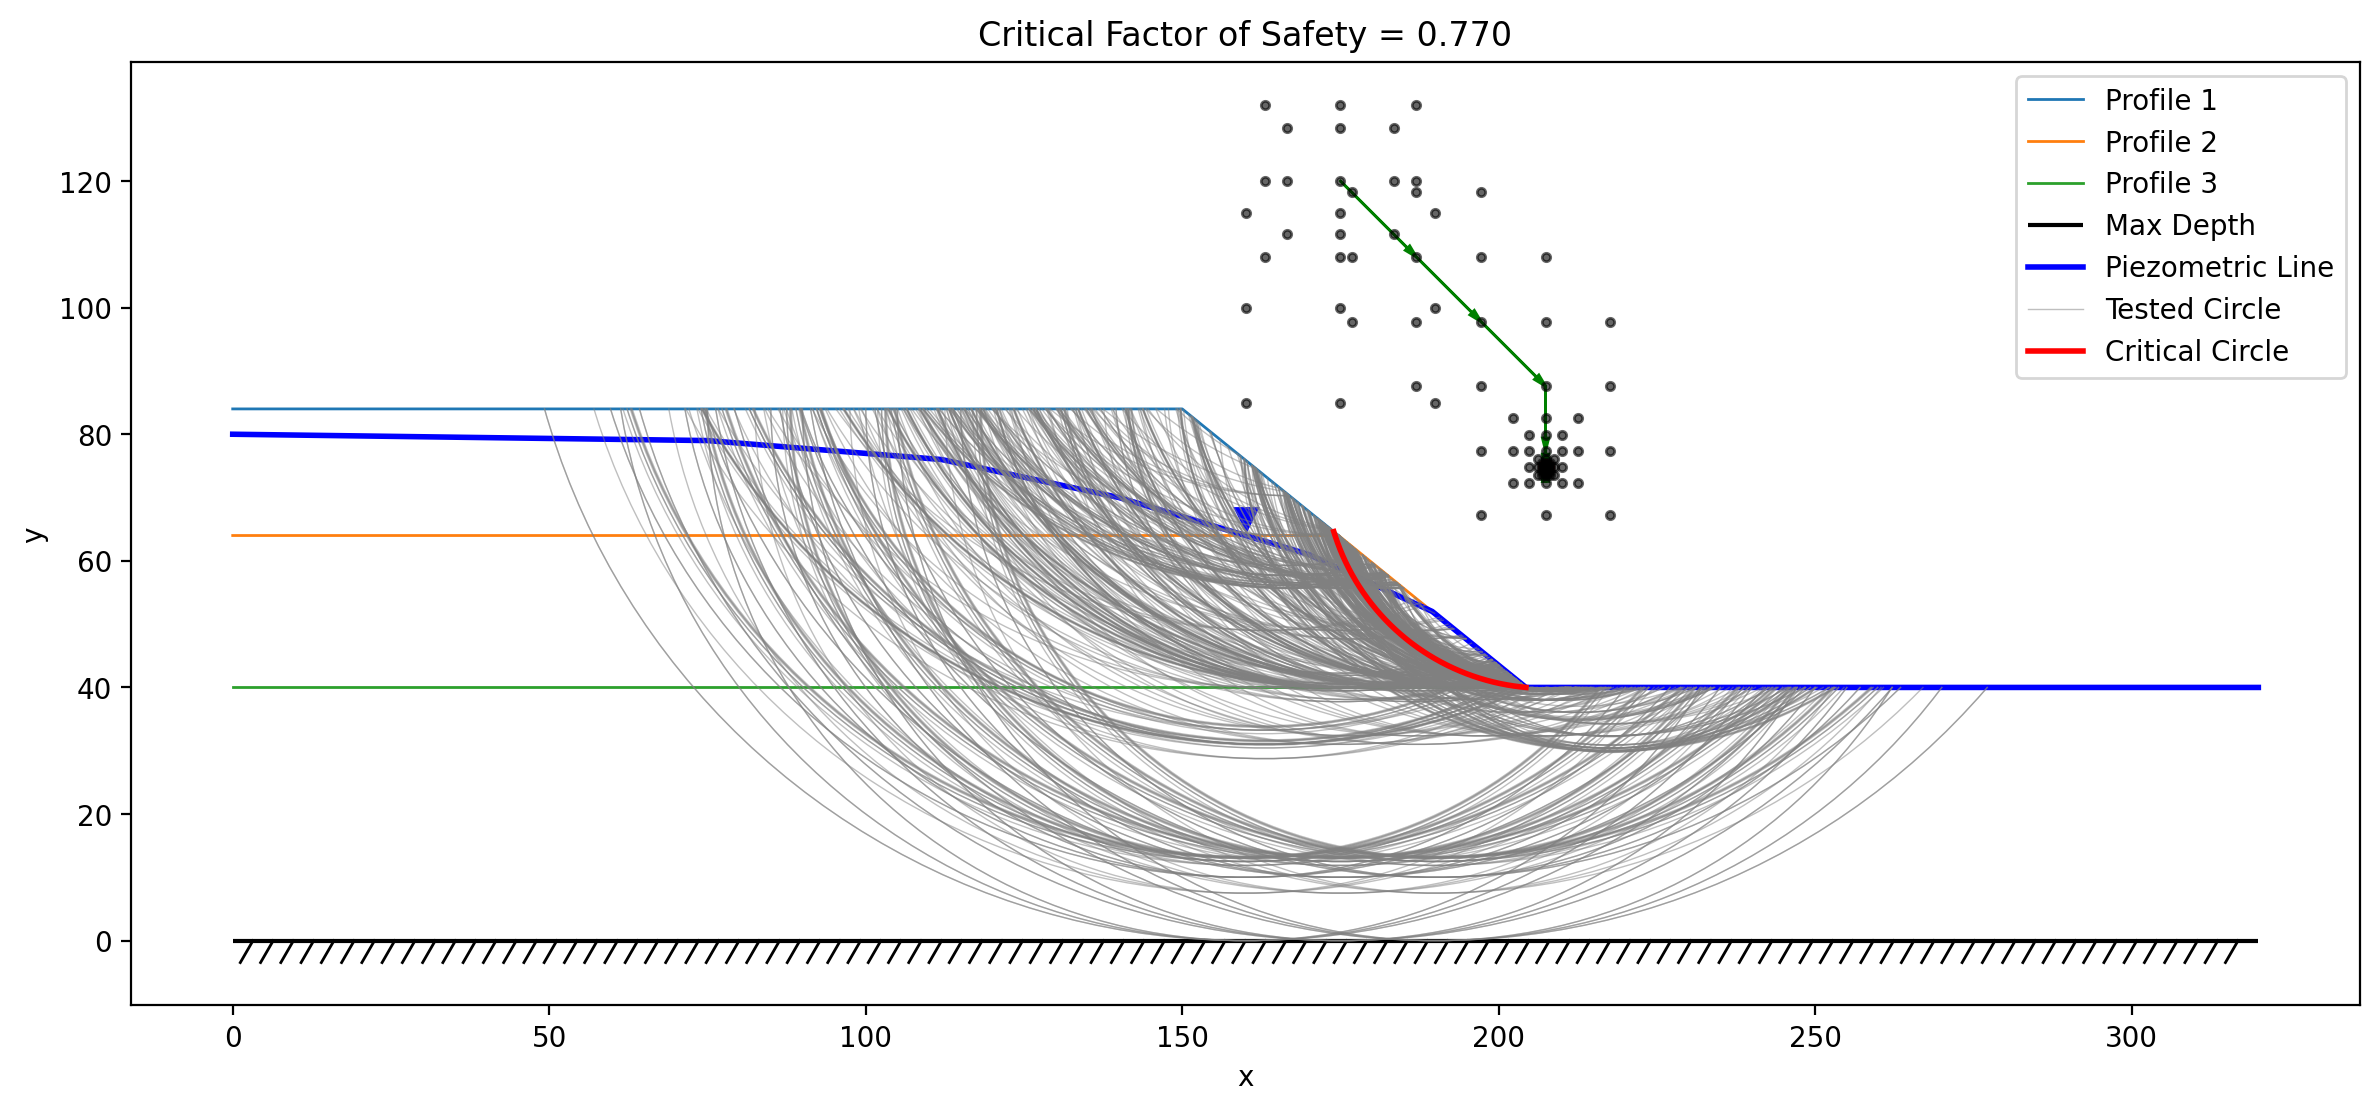
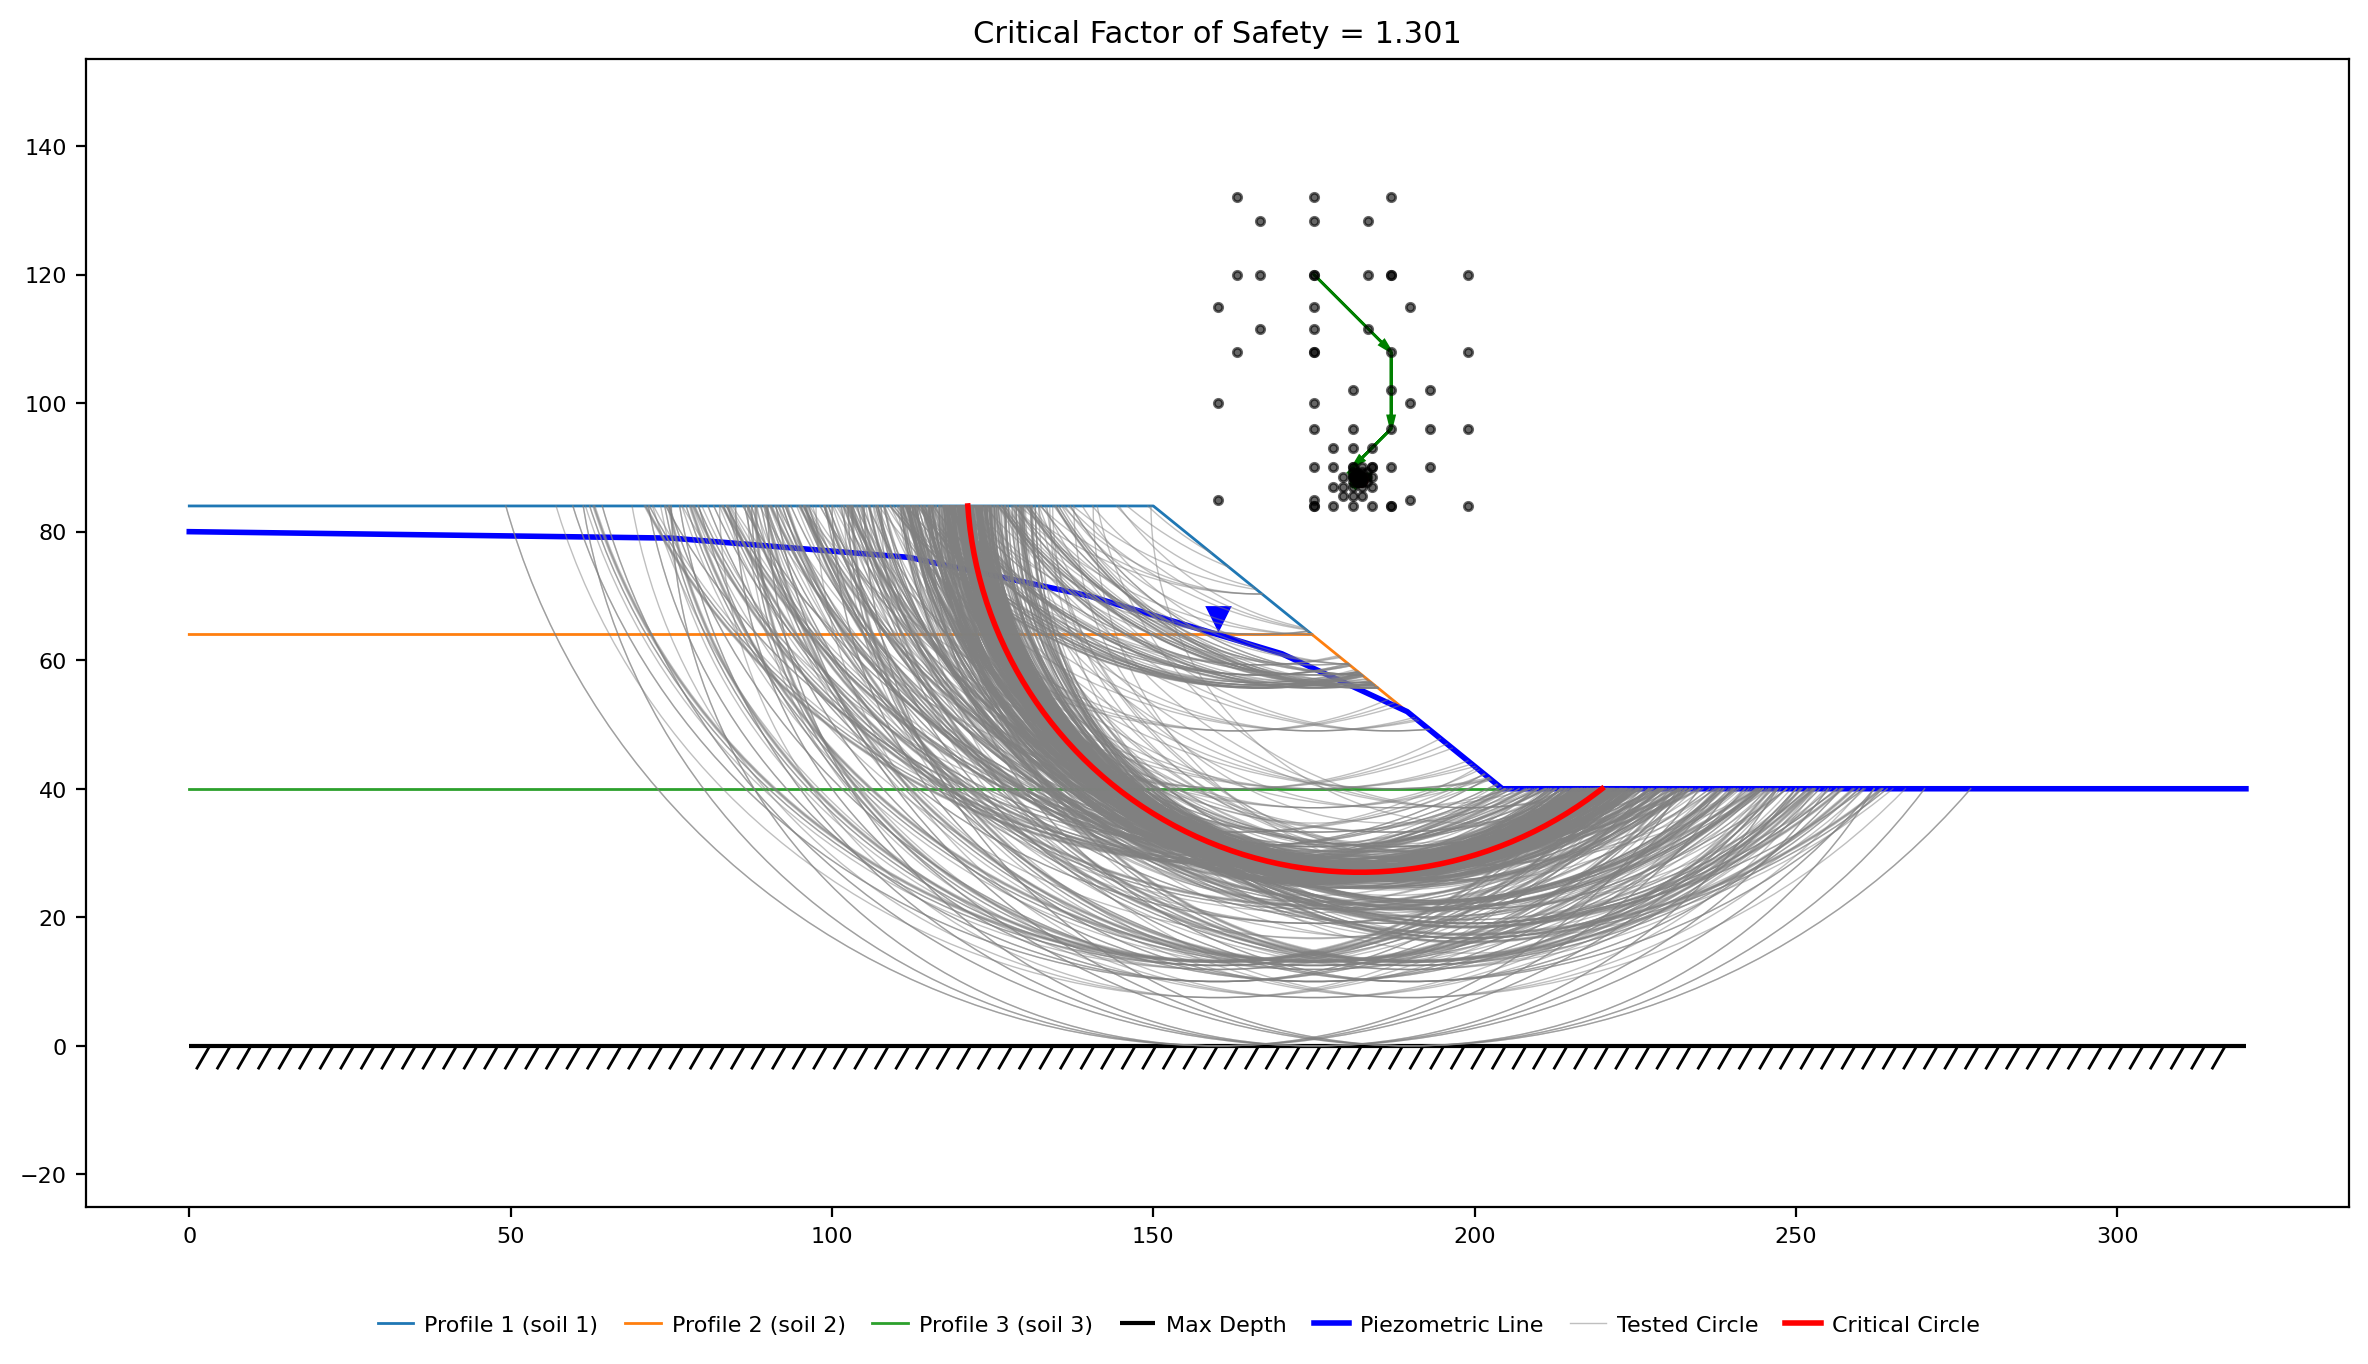
docs(lem): sample 5 reports the mechanism its search now finds
The section states its soil table, so the strengths and the two unit weights a
reader would otherwise take from the drawing are on the page. The specified
circle reads 1.462 by Spencer and is not critical; the three-seed search
converges on a deep foundation circle at 1.300, entering the crest at x = 121
and bottoming out 13 ft into the foundation clay, where the earlier text
reported sloughing of the second layer.

The first solution figure is drawn by Spencer, as every sample solution figure
is, and the sentence beside it no longer names a different method than the
figure's own title.

Claude-Session: https://claude.ai/code/session_01XjjT2aBxw8gY7EFdpoUcpj

diff --git a/docs/lem/samples.md b/docs/lem/samples.md
@@ -200,10 +200,21 @@ Solution (critical surface and factor of safety):
 
 ### 5. Slope with Multiple Materials and Piezometric Line
 
-This problem features three layers of material with an effective stress analysis where pore pressures are derives 
+This problem features three layers of material with an effective stress analysis where pore pressures are derived 
 from a piezometric line. 
 
 ![method_slices_problem.png](sample_images/method_slices_problem.png){width=900}
+
+| Material | γ (pcf) | γ_sat (pcf) | c′ (psf) | φ′ (deg) | u |
+|---|---:|---:|---:|---:|---|
+| soil 1 | 125 | 130 | 400 | 30 | `piezo` |
+| soil 2 | 122 | 127 | 600 | 28 | `piezo` |
+| soil 3 | 115 | 118 | 900 | 12 | `piezo` |
+
+A firm embankment and middle layer sit on a soft foundation clay, and the critical surface is a deep circle cutting 
+into that clay rather than anything on the face. Every material states both unit weights, so each slice's weight is 
+split at the piezometric line — γ above it, γ_sat below — the behavior [Problem 16](#16-saturated-vs-moist-unit-weight-_sat) 
+isolates.
 
 This problem is featured as part of a graduate course on slope stability analysis (CE 544 - Slope Stability Analysis)
 at Brigham Young University. The problem used in two exercises to illustrate how to solve limit equilibrium slope 
@@ -220,19 +231,22 @@ Inputs plotted with the XSLOPE plot_inputs() function:
 
 ![method_slices_problem_inputs.png](sample_images/method_slices_problem_inputs.png){width=900}
 
-Here is the solution for just the starting circle (to match the problem description) using Bishop's simplified procedure:
+Here is the solution for just the starting circle (to match the problem description), solved with Spencer's method:
 
 ![method_slices_problem_results.png](sample_images/method_slices_problem_results.png){width=900}
+
+The specified circle enters the crest at x = 80.8 and exits on the flat ground at x = 267.8, 215 ft of base carrying 
+696,000 lb/ft. It is not the critical surface — the search below finds one 11% lower.
 
 <!-- fs-table -->
 **Factor of safety by method** (each method on the same specified circle):
 
 | OMS | Bishop | Janbu | Corps | Lowe | Spencer | M-P |
 |---:|---:|---:|---:|---:|---:|---:|
-| 1.303 | 1.576 | 1.533 | 1.766 | 1.641 | 1.579 | 1.579 |
+| 1.310 | 1.475 | 1.469 | 1.641 | 1.522 | 1.462 | 1.464 |
 <!-- /fs-table -->
 
-<!-- test: file=files/xslope_method_slices_problem.xlsx, type=single_circle, num_slices=40, fs_oms=1.303, fs_bishop=1.576, fs_janbu=1.533, fs_corps=1.766, fs_lowe=1.641, fs_spencer=1.579, fs_mprice=1.579 -->
+<!-- test: file=files/xslope_method_slices_problem.xlsx, type=single_circle, num_slices=40, fs_oms=1.310, fs_bishop=1.475, fs_janbu=1.469, fs_corps=1.641, fs_lowe=1.522, fs_spencer=1.462, fs_mprice=1.464 -->
 
 Here is the Excel input file with multiple starting circles for a global search for the critical surface:
 
@@ -242,8 +256,9 @@ Inputs plotted with the XSLOPE plot_inputs() function:
 
 ![method_slices_problem_inputs2.png](sample_images/method_slices_problem_inputs2.png){width=900}
 
-Sarch results. This problem is a good example of the search path and the large number of circles that are sometimes 
-tested in the search algorithm. In this case, the critical surface is isolated to sloughing of the 2nd layer.
+Search results. This problem is a good example of the search path and the large number of circles that are sometimes 
+tested in the search algorithm. The three seeds converge on one mechanism: a deep circle entering the crest at 
+x = 121, bottoming out 13 ft into the foundation clay, and exiting on the flat ground at x = 220.
 
 ![method_slices_problem_search_results2.png](sample_images/method_slices_problem_search_results2.png){width=900}
 
@@ -256,10 +271,10 @@ Solution (critical surface and factor of safety):
 
 | OMS | Bishop | Janbu | Corps | Lowe | Spencer | M-P |
 |---:|---:|---:|---:|---:|---:|---:|
-| 0.628 | 0.762 | 0.734 | 0.721 | 0.788 | 0.770 | 0.767 |
+| 1.084 | 1.327 | 1.253 | 1.436 | 1.375 | 1.300 | 1.302 |
 <!-- /fs-table -->
 
-<!-- test: file=files/xslope_method_slices_problem2.xlsx, type=circular_search, num_slices=40, fs_oms=0.628, fs_bishop=0.762, fs_janbu=0.734, fs_corps=0.721, fs_lowe=0.788, fs_spencer=0.770, fs_mprice=0.767 -->
+<!-- test: file=files/xslope_method_slices_problem2.xlsx, type=circular_search, num_slices=40, fs_oms=1.084, fs_bishop=1.327, fs_janbu=1.253, fs_corps=1.436, fs_lowe=1.375, fs_spencer=1.300, fs_mprice=1.302 -->
 
 ### 6. Slope with Eight Layers
 
